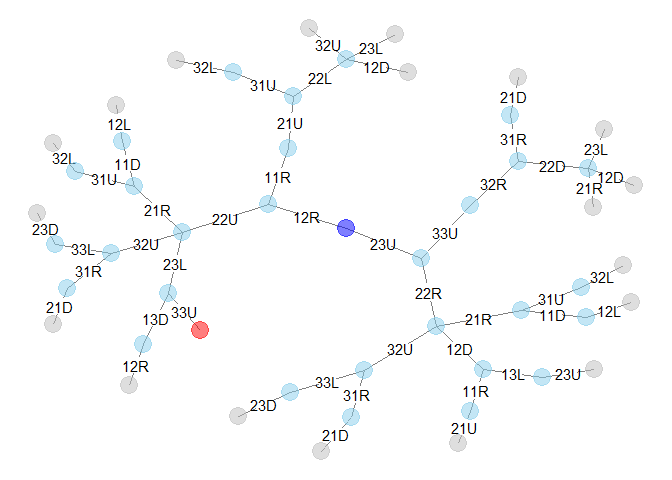
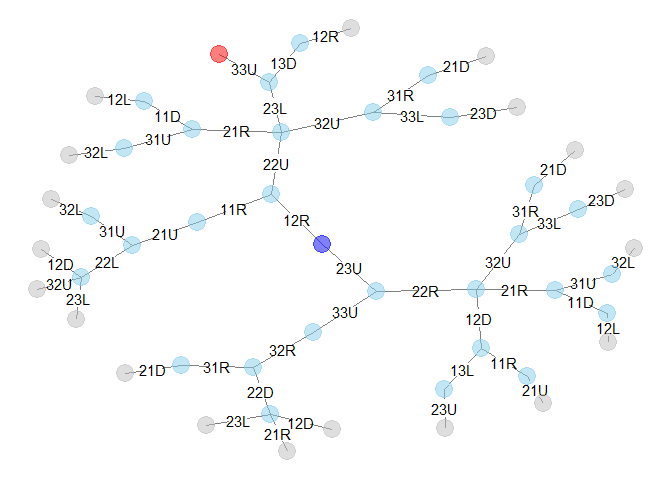
20191110

diff --git a/README.md b/README.md
@@ -7,7 +7,15 @@
 
 <!-- badges: end -->
 
-Analyze sliding puzzle.
+`rSlidePzl` package provides funtions to analyze [sliding
+puzzle](https://en.wikipedia.org/wiki/Sliding_puzzle).
+
+With `rSlidePzl::makeGraph` function, you can make a network graph
+representing possible ‘states’ (snapshots of board) and transition
+relationships between states.
+
+You can examine the property of the graph with `igraph` package, or any
+other software for network analysis (e.g. [Gephi](https://gephi.org/)).
 
 ## Installation
 
@@ -17,6 +25,29 @@ devtools::install_github("shigono/rSlidePzl")
 ```
 
 ## Example
+
+Suppose you have a simple sliding puzzle with 8 pieces. The size of
+board is 3 x 3. The size of each pieces is 1 x 1.
+
+The initial state is:
+
+|      | col1 | col2 | col3 |
+| ---- | :--- | :--- | :--- |
+| row1 | A    | C    |      |
+| row2 | D    | B    | E    |
+| row3 | F    | G    | F    |
+
+Your goal is:
+
+|      | col1 | col2 | col3 |
+| ---- | :--- | :--- | :--- |
+| row1 | A    | B    | C    |
+| row2 | D    | E    | F    |
+| row3 | G    | H    |      |
+
+Let’s try to analyse this puzzle with `rSlidePzl` package.
+
+### make a network graph
 
 ``` r
 library(rSlidePzl)
@@ -68,56 +99,75 @@ oGoalCondition <- makeState(
 )
 stopifnot(isValidState(oGoalCondition, oSetting))
 
-# analyse the puzzle and make a network graph of states
-oGraph <- makeGraph(oSetting, oStart, oGoalCondition, max_depth = 5, verbose = 1)
-#> Processed # 1 (depth 0 ) of 3 states; goal 0 ; 2 transitions
-#> Processed # 2 (depth 1 ) of 5 states; goal 0 ; 4 transitions
-#> Processed # 3 (depth 1 ) of 7 states; goal 0 ; 6 transitions
-#> Processed # 4 (depth 2 ) of 8 states; goal 0 ; 7 transitions
-#> Processed # 5 (depth 2 ) of 11 states; goal 0 ; 10 transitions
-#> Processed # 6 (depth 2 ) of 14 states; goal 0 ; 13 transitions
-#> Processed # 7 (depth 2 ) of 15 states; goal 0 ; 14 transitions
-#> Processed # 8 (depth 3 ) of 17 states; goal 0 ; 16 transitions
-#> Processed # 9 (depth 3 ) of 19 states; goal 0 ; 18 transitions
-#> Processed # 10 (depth 3 ) of 21 states; goal 1 ; 20 transitions
-#> Processed # 11 (depth 3 ) of 23 states; goal 1 ; 22 transitions
-#> Processed # 12 (depth 3 ) of 25 states; goal 1 ; 24 transitions
-#> Processed # 13 (depth 3 ) of 27 states; goal 1 ; 26 transitions
-#> Processed # 14 (depth 3 ) of 29 states; goal 1 ; 28 transitions
-#> Processed # 15 (depth 3 ) of 31 states; goal 1 ; 30 transitions
-#> Processed # 16 (depth 4 ) of 34 states; goal 1 ; 33 transitions
-#> Processed # 17 (depth 4 ) of 35 states; goal 1 ; 34 transitions
-#> Processed # 18 (depth 4 ) of 36 states; goal 1 ; 35 transitions
-#> Processed # 19 (depth 4 ) of 37 states; goal 1 ; 36 transitions
-#> Processed # 20 (depth 4 ) of 38 states; goal 1 ; 37 transitions
-#> Processed # 22 (depth 4 ) of 39 states; goal 1 ; 38 transitions
-#> Processed # 23 (depth 4 ) of 40 states; goal 1 ; 39 transitions
-#> Processed # 24 (depth 4 ) of 41 states; goal 1 ; 40 transitions
-#> Processed # 25 (depth 4 ) of 42 states; goal 1 ; 41 transitions
-#> Processed # 26 (depth 4 ) of 43 states; goal 1 ; 42 transitions
-#> Processed # 27 (depth 4 ) of 44 states; goal 1 ; 43 transitions
-#> Processed # 28 (depth 4 ) of 45 states; goal 1 ; 44 transitions
-#> Processed # 29 (depth 4 ) of 46 states; goal 1 ; 45 transitions
-#> Processed # 30 (depth 4 ) of 49 states; goal 1 ; 48 transitions
-#> Processed # 31 (depth 4 ) of 50 states; goal 1 ; 49 transitions
-# 
-# # plot
+# find all states within 5 moves and make a network graph of them
+oGraph <- makeGraph(oSetting, oStart, oGoalCondition, max_depth = 5, verbose = 0)
 plotGraph(oGraph, method = "GGally")
-#> Loading required package: ggplot2
 ```
 
-<img src="man/figures/README-example-1.png" width="100%" />
+<img src="man/figures/README-example1-1.png" width="100%" />
+
+The blue node (circle) in the plot represents the initial states. Other
+nodes are possible states you can generate by moving pieces within 5
+times.
+
+The edges between nodes represent transition relationships between node.
+For example, at inital state you have two choice: move a piece at (1,2)
+(piece C) right, or move a piece at (2,3) (piece E) upper.
+
+Notes that makeGraph() function can take VERY LONG time. I recommend to
+limit the search space by `max_depth` argument or `max_num_states`
+argument.
+
+It would be better to avoid to plot a large graph in R. Consider to use
+Gephi or some other software instead.
+
+### find best solutions
+
+The main purpose of `rSlidePzl` package is to make a network graph of
+possible states in given puzzle, not to get solutions of the puzzle. But
+in this case you have reached to the goal state (the red node in graph),
+so you can see a best solution.
+
+Your best moves are:
 
 ``` r
- 
 # # show shortest pathes
 lSolution <- getShortestPaths(oGraph)
-print(lSolution$state)
-#> [[1]]
-#> [1] "11A12C21D22B23E31G32H33F" "11A13C21D22B23E31G32H33F"
-#> [3] "11A12B13C21D23E31G32H33F" "11A12B13C21D22E31G32H33F"
-#> [5] "11A12B13C21D22E23F31G32H"
 print(lSolution$transition)
 #> [[1]]
 #> [1] "12R" "22U" "23L" "33U"
 ```
+
+It says: move a piece at (1,2) right,
+
+|      | col1 | col2 | col3 |
+| ---- | :--- | :--- | :--- |
+| row1 | A    |      | C    |
+| row2 | D    | B    | E    |
+| row3 | G    | H    | F    |
+
+move a piece at (2,2) upper,
+
+|      | col1 | col2 | col3 |
+| ---- | :--- | :--- | :--- |
+| row1 | A    | B    | C    |
+| row2 | D    |      | E    |
+| row3 | G    | H    | F    |
+
+move a piece at (2,3) left,
+
+|      | col1 | col2 | col3 |
+| ---- | :--- | :--- | :--- |
+| row1 | A    | B    | C    |
+| row2 | D    | E    |      |
+| row3 | G    | H    | F    |
+
+and move a piece at (3,3) upper.
+
+|      | col1 | col2 | col3 |
+| ---- | :--- | :--- | :--- |
+| row1 | A    | B    | C    |
+| row2 | D    | E    | F    |
+| row3 | G    | H    |      |
+
+Enjoy.
